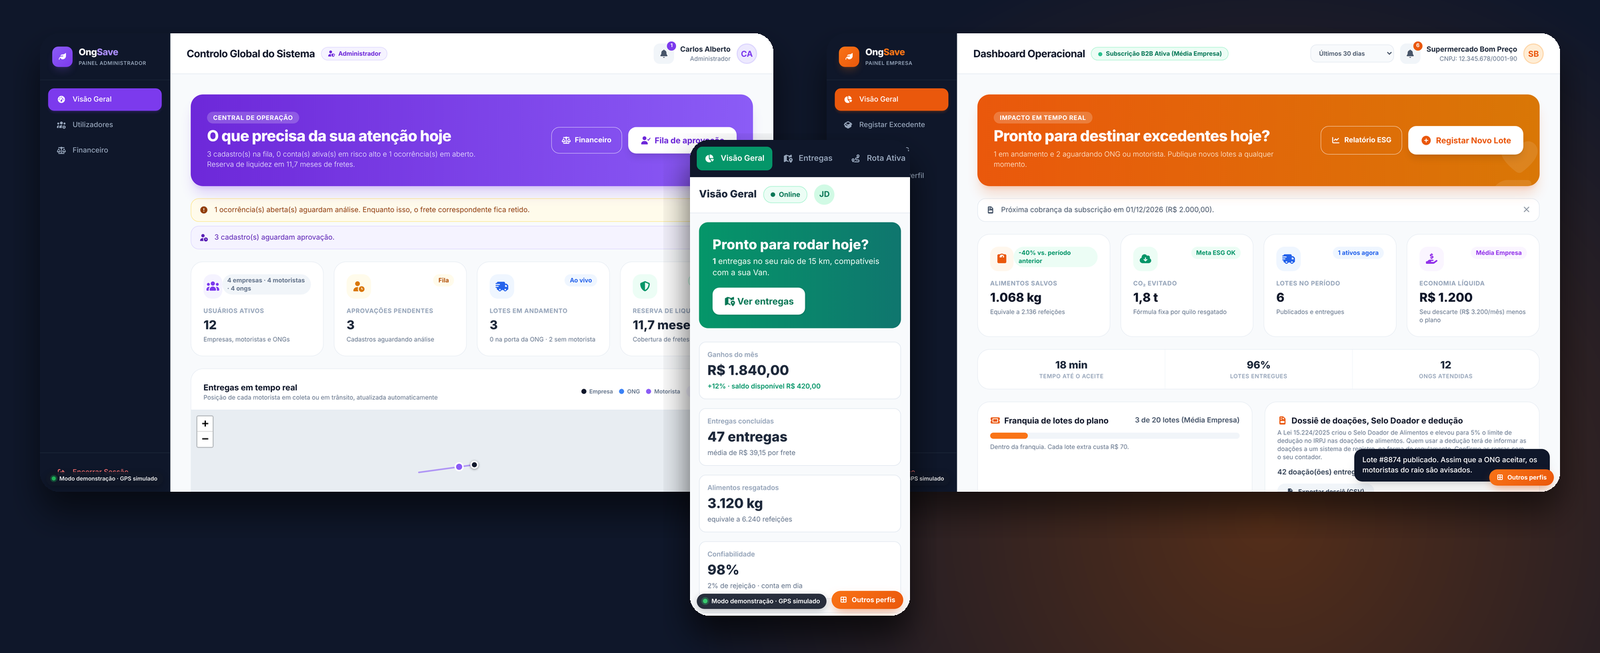
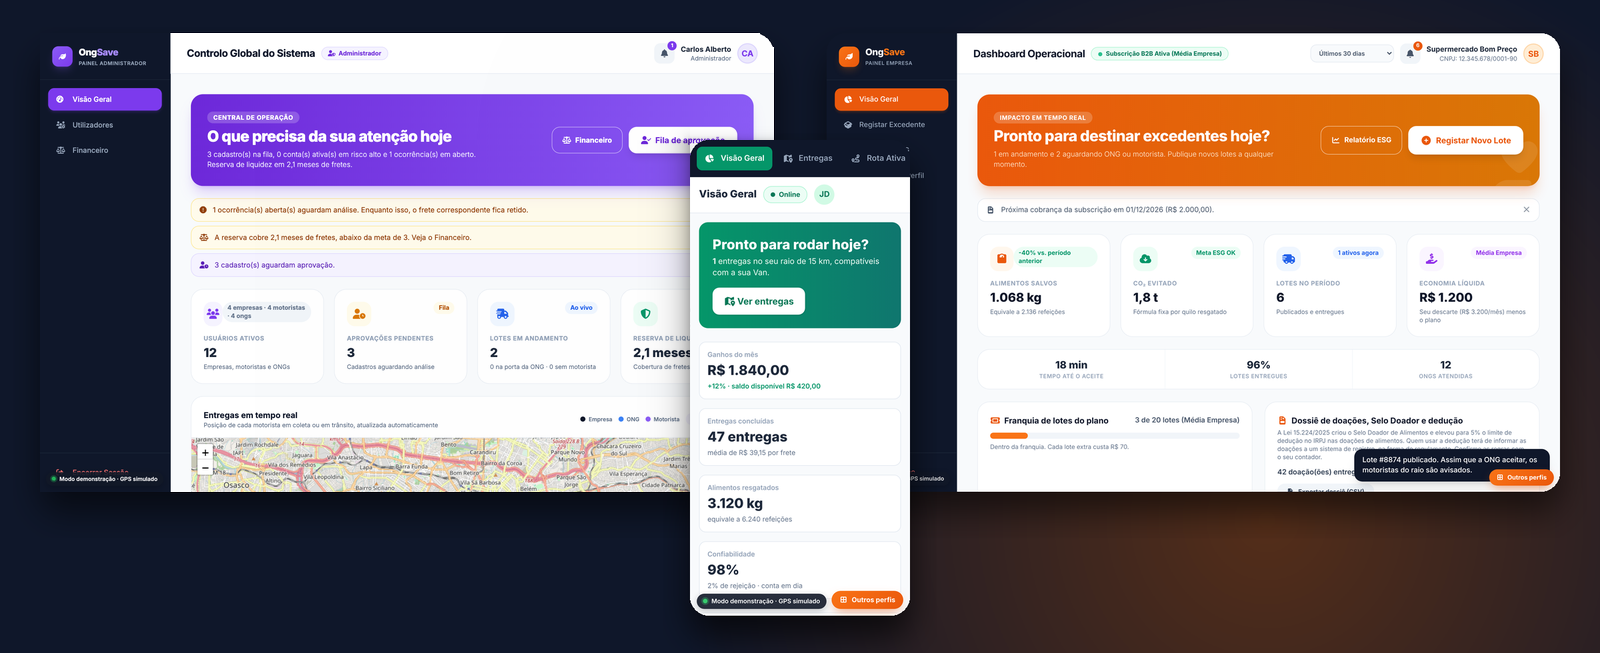
docs: capturas com mapa (ruas e entregas em movimento)

diff --git a/README.md b/README.md
@@ -108,7 +108,7 @@ A página inicial tem o link **Ver demonstrativo** (`/demo`). Cada cartão entra
 | <img src="docs/screenshots/04-recuperar-senha.png" alt="Recuperação de senha" width="600"> |
 </details>
 
-> As capturas foram feitas com os dados de demonstração e a simulação ligada. Nelas os mapas aparecem sem o fundo de ruas, porque foram tiradas num ambiente sem acesso ao OpenStreetMap; na aplicação o mapa mostra as ruas normalmente.
+> As capturas foram feitas com os dados de demonstração e a simulação ligada.
 
 **Contas de demonstração** (senha `ongsave123`, criadas só com `app.dadosDemo=true` num banco vazio):
 
